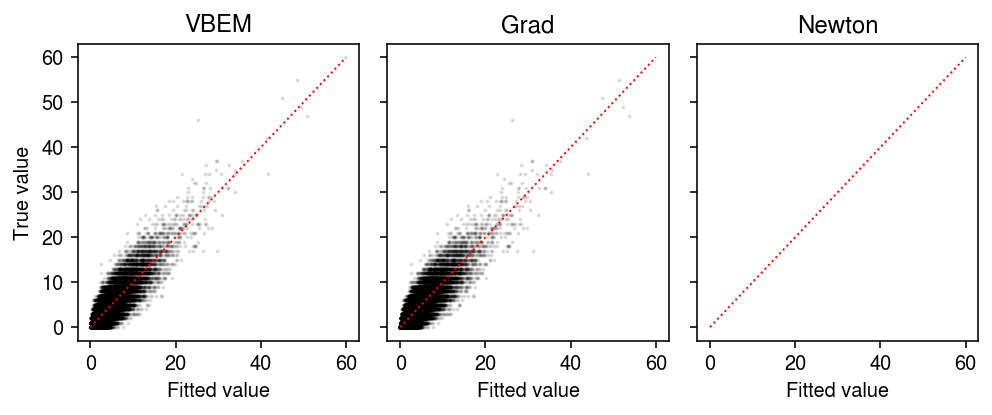
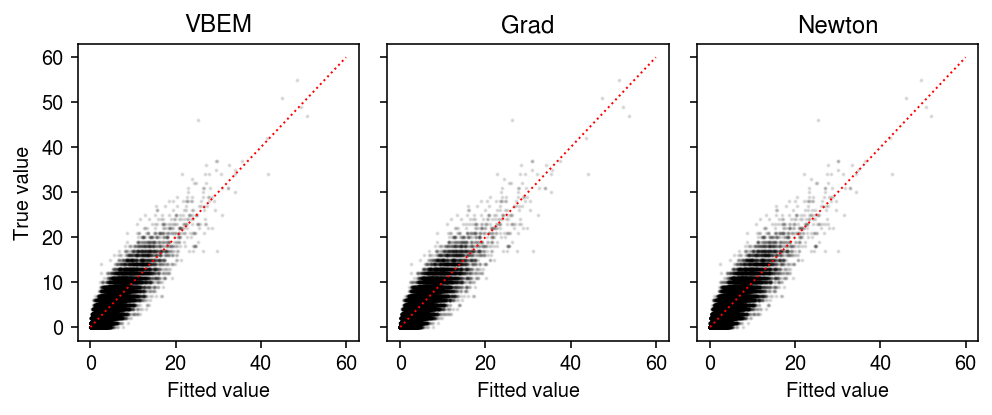
Evaluate all methods on HPMF ELBO after integrating out z

Changed region(s): [[0.6875, 0.4337, 0.8438, 0.8096]]

diff --git a/docs/hpmf.html b/docs/hpmf.html
@@ -1,7 +1,7 @@
 <!DOCTYPE html>
 <html lang="en">
 <head>
-<!-- 2021-06-26 Sat 22:38 -->
+<!-- 2021-06-26 Sat 23:03 -->
 <meta charset="utf-8">
 <meta name="viewport" content="width=device-width, initial-scale=1">
 <title>Hierarchical PMF</title>
@@ -442,7 +442,22 @@ where \(\psi^{(1)}\) denotes the trigamma function.
     <span class="org-keyword">self</span>.b_f = torch.nn.Parameter(torch.ones([1, k]))
 
   <span class="org-type">@torch.no_grad</span>()
-  <span class="org-keyword">def</span> <span class="org-function-name">elbo</span>(<span class="org-keyword">self</span>, x, pm_l, exp_pm_ln_l, pm_f, exp_pm_ln_f):
+  <span class="org-keyword">def</span> <span class="org-function-name">elbo</span>(<span class="org-keyword">self</span>, x):
+    <span class="org-doc">"""ELBO wrt q(l_{ik}) q(f_{jk}), i.e. integrating out z_{ijk}"""</span>
+    <span class="org-variable-name">q_l</span> = torch.distributions.Gamma(<span class="org-keyword">self</span>.alpha_l, <span class="org-keyword">self</span>.beta_l)
+    <span class="org-variable-name">q_f</span> = torch.distributions.Gamma(<span class="org-keyword">self</span>.alpha_f, <span class="org-keyword">self</span>.beta_f)
+    <span class="org-variable-name">kl_l</span> = torch.distributions.kl.kl_divergence(q_l, torch.distributions.Gamma(<span class="org-keyword">self</span>.a_l, <span class="org-keyword">self</span>.b_l)).<span class="org-builtin">sum</span>()
+    <span class="org-variable-name">kl_f</span> = torch.distributions.kl.kl_divergence(q_f, torch.distributions.Gamma(<span class="org-keyword">self</span>.a_f, <span class="org-keyword">self</span>.b_f)).<span class="org-builtin">sum</span>()
+    <span class="org-comment-delimiter"># </span><span class="org-comment">TODO: multiple samples?</span>
+    <span class="org-variable-name">l</span> = q_l.rsample()
+    <span class="org-variable-name">f</span> = q_f.rsample()
+    <span class="org-variable-name">err</span> = torch.distributions.Poisson(l @ f.T).log_prob(x).<span class="org-builtin">sum</span>()
+    <span class="org-variable-name">elbo</span> = err - kl_l - kl_f
+    <span class="org-keyword">return</span> elbo
+
+  <span class="org-type">@torch.no_grad</span>()
+  <span class="org-keyword">def</span> <span class="org-function-name">elbo_z</span>(<span class="org-keyword">self</span>, x, pm_l, exp_pm_ln_l, pm_f, exp_pm_ln_f):
+    <span class="org-doc">"""ELBO wrt q(l_{ik}) q(f_{jk}) q(z_{ijk})"""</span>
     <span class="org-variable-name">temp</span> = exp_pm_ln_l @ exp_pm_ln_f.T
     <span class="org-variable-name">ret</span> = (x * torch.log(temp) - pm_l @ pm_f.T - torch.lgamma(x + 1)).<span class="org-builtin">sum</span>()
     <span class="org-variable-name">ret</span> += ((<span class="org-keyword">self</span>.a_l - <span class="org-keyword">self</span>.alpha_l) * torch.log(exp_pm_ln_l)
@@ -472,10 +487,10 @@ where \(\psi^{(1)}\) denotes the trigamma function.
   <span class="org-keyword">def</span> <span class="org-function-name">fit</span>(<span class="org-keyword">self</span>, x, num_epochs):
     <span class="org-keyword">self</span>.trace = []
     <span class="org-keyword">for</span> i <span class="org-keyword">in</span> <span class="org-builtin">range</span>(num_epochs):
-      <span class="org-comment-delimiter"># </span><span class="org-comment">Cemgil 2009, Alg. 1</span>
       <span class="org-variable-name">pm_l</span>, <span class="org-variable-name">exp_pm_ln_l</span>, <span class="org-variable-name">pm_f</span>, <span class="org-variable-name">exp_pm_ln_f</span> = <span class="org-keyword">self</span>._pm()
-      <span class="org-variable-name">elbo_</span> = <span class="org-keyword">self</span>.elbo(x, pm_l, exp_pm_ln_l, pm_f, exp_pm_ln_f)
-      <span class="org-keyword">self</span>.trace.append(-elbo_)
+      <span class="org-keyword">self</span>.trace.append(-<span class="org-keyword">self</span>.elbo(x).cpu().numpy())
+      <span class="org-comment-delimiter"># </span><span class="org-comment">Cemgil 2009, Alg. 1</span>
+      <span class="org-comment-delimiter"># </span><span class="org-comment">Important: this optimizes elbo_z, not elbo</span>
       <span class="org-variable-name">temp</span> = x / (exp_pm_ln_l @ exp_pm_ln_f.T)
       <span class="org-keyword">self</span>.alpha_l.data = exp_pm_ln_l * (temp @ exp_pm_ln_f) + <span class="org-keyword">self</span>.a_l
       <span class="org-keyword">self</span>.beta_l.data = pm_f.<span class="org-builtin">sum</span>(dim=0) + <span class="org-keyword">self</span>.b_l
@@ -512,7 +527,20 @@ differentiation to get the first and second derivatives.
     <span class="org-keyword">self</span>.a_f = torch.nn.Parameter(torch.ones([1, k]))
     <span class="org-keyword">self</span>.b_f = torch.nn.Parameter(torch.ones([1, k]))
 
+  <span class="org-type">@torch.no_grad</span>()
   <span class="org-keyword">def</span> <span class="org-function-name">elbo</span>(<span class="org-keyword">self</span>, x):
+    <span class="org-variable-name">q_l</span> = torch.distributions.Gamma(<span class="org-keyword">self</span>.alpha_l, <span class="org-keyword">self</span>.beta_l)
+    <span class="org-variable-name">q_f</span> = torch.distributions.Gamma(<span class="org-keyword">self</span>.alpha_f, <span class="org-keyword">self</span>.beta_f)
+    <span class="org-variable-name">kl_l</span> = torch.distributions.kl.kl_divergence(q_l, torch.distributions.Gamma(<span class="org-keyword">self</span>.a_l, <span class="org-keyword">self</span>.b_l)).<span class="org-builtin">sum</span>()
+    <span class="org-variable-name">kl_f</span> = torch.distributions.kl.kl_divergence(q_f, torch.distributions.Gamma(<span class="org-keyword">self</span>.a_f, <span class="org-keyword">self</span>.b_f)).<span class="org-builtin">sum</span>()
+    <span class="org-comment-delimiter"># </span><span class="org-comment">TODO: multiple samples?</span>
+    <span class="org-variable-name">l</span> = q_l.rsample()
+    <span class="org-variable-name">f</span> = q_f.rsample()
+    <span class="org-variable-name">err</span> = torch.distributions.Poisson(l @ f.T).log_prob(x).<span class="org-builtin">sum</span>()
+    <span class="org-variable-name">elbo</span> = err - kl_l - kl_f
+    <span class="org-keyword">return</span> elbo
+
+  <span class="org-keyword">def</span> <span class="org-function-name">elbo_z</span>(<span class="org-keyword">self</span>, x):
     <span class="org-variable-name">pm_l</span> = (<span class="org-keyword">self</span>.alpha_l / <span class="org-keyword">self</span>.beta_l)
     <span class="org-variable-name">exp_pm_ln_l</span> = torch.exp(torch.digamma(<span class="org-keyword">self</span>.alpha_l) - torch.log(<span class="org-keyword">self</span>.beta_l))
     <span class="org-variable-name">pm_f</span> = (<span class="org-keyword">self</span>.alpha_f / <span class="org-keyword">self</span>.beta_f)
@@ -540,22 +568,21 @@ differentiation to get the first and second derivatives.
     <span class="org-doc">"""Newton-Raphon update"""</span>
     <span class="org-keyword">for</span> i <span class="org-keyword">in</span> <span class="org-builtin">range</span>(par.shape[0]):
       <span class="org-keyword">for</span> k <span class="org-keyword">in</span> <span class="org-builtin">range</span>(par.shape[1]):
-        <span class="org-variable-name">d</span> = torch.autograd.grad(<span class="org-keyword">self</span>.elbo(x), par, create_graph=<span class="org-constant">True</span>)[0]
+        <span class="org-comment-delimiter"># </span><span class="org-comment">Important: this optimizes elbo_z, not elbo</span>
+        <span class="org-variable-name">d</span> = torch.autograd.grad(<span class="org-keyword">self</span>.elbo_z(x), par, create_graph=<span class="org-constant">True</span>)[0]
         <span class="org-variable-name">d2</span> = torch.autograd.grad(d[i,k], par)[0]
         <span class="org-keyword">with</span> torch.no_grad():
           <span class="org-variable-name">par.data</span>[i,k] -= step * d[i,k] / (d2[i,k] + eps)
           <span class="org-variable-name">par.data</span>[i,k] = torch.clamp(par.data[i,k], <span class="org-builtin">min</span>=eps)
 
   <span class="org-keyword">def</span> <span class="org-function-name">fit</span>(<span class="org-keyword">self</span>, x, num_epochs, step=1):
-    <span class="org-keyword">with</span> torch.no_grad():
-      <span class="org-keyword">self</span>.trace = [-<span class="org-keyword">self</span>.elbo(x).cpu().numpy()]
+    <span class="org-keyword">self</span>.trace = [-<span class="org-keyword">self</span>.elbo(x).cpu().numpy()]
     <span class="org-keyword">for</span> t <span class="org-keyword">in</span> <span class="org-builtin">range</span>(num_epochs):
       <span class="org-comment-delimiter"># </span><span class="org-comment">TODO: update order probably matters</span>
       <span class="org-keyword">for</span> par <span class="org-keyword">in</span> <span class="org-keyword">self</span>.parameters():
         <span class="org-keyword">if</span> par.requires_grad:
           <span class="org-keyword">self</span>._update(x, par, step=step)
-      <span class="org-keyword">with</span> torch.no_grad():
-        <span class="org-keyword">self</span>.trace.append(-<span class="org-keyword">self</span>.elbo(x).cpu().numpy())
+      <span class="org-keyword">self</span>.trace.append(-<span class="org-keyword">self</span>.elbo(x).cpu().numpy())
     <span class="org-keyword">return</span> <span class="org-keyword">self</span>
 </pre>
 </div>
@@ -613,7 +640,7 @@ al. 2020</a>) and gradient descent. Briefly,
     <span class="org-keyword">for</span> i <span class="org-keyword">in</span> <span class="org-builtin">range</span>(num_epochs):
       opt.zero_grad()
       <span class="org-variable-name">loss</span> = <span class="org-keyword">self</span>.forward(x)
-      <span class="org-keyword">self</span>.trace.append(loss.cpu().detach().numpy())
+      <span class="org-keyword">self</span>.trace.append(loss.detach().cpu().numpy())
       loss.backward()
       opt.step()
     <span class="org-keyword">return</span> <span class="org-keyword">self</span>
@@ -651,7 +678,7 @@ Simulate from the model.
 </div>
 
 <p>
-To initialize all methods, run 1000 epochs of VBEM. For simplicity, fix the
+To initialize all methods, run 500 epochs of VBEM. For simplicity, fix the
 hyperparameters to the oracle values.
 </p>
 
@@ -665,8 +692,9 @@ torch.manual_seed(1)
 
 <p>
 Starting from the same initialization, compare VBEM and Newton-Raphson
-(which optimize the ELBO eq. 21-22) and gradient descent (which optimizes
-the ELBO eq. 32).
+(which optimize the ELBO eq. 20-21) and gradient descent (which optimizes
+the ELBO eq. 32). For each method, trace the ELBO estimated according to
+eq. 32.
 </p>
 
 <div class="org-src-container">
@@ -742,140 +770,19 @@ plt.tight_layout()
 </div>
 
 <p>
-Estimate the total improvement in ELBO achieved by GD.
+Report the final (approximate) ELBO.
 </p>
 
 <div class="org-src-container">
-<pre class="src src-ipython">m1.trace[-1].cpu() - np.array(m2.trace[-50:]).mean()
+<pre class="src src-ipython">{<span class="org-doc">'VBEM'</span>: np.array(m1.trace[-10:]).mean(),
+ <span class="org-doc">'GD'</span>: np.array(m2.trace[-10:]).mean(),
+ <span class="org-doc">'Newton'</span>: np.array(m3.trace[-10:]).mean()}
 </pre>
 </div>
 
 <pre class="example">
-tensor(378.7500)
+{'VBEM': 104987.02, 'GD': 104994.67, 'Newton': 104972.0}
 
-</pre>
-
-<p>
-Quantify how much the variational approximation to \(z\) made by VBEM
-decreases the ELBO.
-</p>
-
-<div class="org-src-container">
-<pre class="src src-ipython">m0.trace[-1].cpu() - m2.trace[0]
-</pre>
-</div>
-
-<pre class="example">
-tensor(-171.4219)
-
-</pre>
-
-<p>
-Examine the VBEM model fit. Match the most correlated factors to each other.
-</p>
-
-<div class="org-src-container">
-<pre class="src src-ipython"><span class="org-keyword">with</span> torch.no_grad():
-  <span class="org-variable-name">pm</span> = (m1.alpha_f / m1.beta_f).cpu()
-<span class="org-variable-name">R</span> = np.corrcoef(pm.T, f.T)[K:,:K]
-<span class="org-variable-name">order</span> = np.argmax(R, axis=1)
-R
-</pre>
-</div>
-
-<pre class="example">
-array([[ 0.01894316, -0.07768191,  0.99240779],
-[ 0.99418493,  0.03296905,  0.02722373],
-[ 0.02448254,  0.99437127, -0.05624917]])
-</pre>
-
-<div class="org-src-container">
-<pre class="src src-ipython">plt.clf()
-<span class="org-variable-name">fig</span>, <span class="org-variable-name">ax</span> = plt.subplots(2, 3)
-fig.set_size_inches(7, 5)
-<span class="org-keyword">for</span> k, a <span class="org-keyword">in</span> <span class="org-builtin">enumerate</span>(ax[0]):
-  <span class="org-keyword">with</span> torch.no_grad():
-    <span class="org-variable-name">pm</span> = (m1.alpha_l / m1.beta_l).cpu()
-  a.scatter(pm[:,order[k]], l[:,k], c=<span class="org-string">'k'</span>, s=1)
-  a.set_title(f<span class="org-string">'$k = {k}$'</span>)
-<span class="org-keyword">for</span> k, a <span class="org-keyword">in</span> <span class="org-builtin">enumerate</span>(ax[1]):
-  <span class="org-keyword">with</span> torch.no_grad():
-    <span class="org-variable-name">pm</span> = (m1.alpha_f / m1.beta_f).cpu()
-  a.scatter(pm[:,order[k]], f[:,k], c=<span class="org-string">'k'</span>, s=1)
-  a.set_xlabel(<span class="org-string">'Estimate'</span>)
-<span class="org-keyword">for</span> a, label <span class="org-keyword">in</span> <span class="org-builtin">zip</span>(ax, [<span class="org-string">'loading'</span>, <span class="org-string">'factor'</span>]):
-  a[0].set_ylabel(f<span class="org-string">'True {label}'</span>)
-fig.tight_layout()
-</pre>
-</div>
-
-
-<div class="figure">
-<p><img src="figure/hpmf.org/sim-ex-vbem.png" alt="sim-ex-vbem.png">
-</p>
-</div>
-
-<p>
-Examine the gradient descent model fit.
-</p>
-
-<div class="org-src-container">
-<pre class="src src-ipython"><span class="org-keyword">with</span> torch.no_grad():
-  <span class="org-variable-name">pm</span> = (m2.alpha_f / m2.beta_f).cpu()
-<span class="org-variable-name">R</span> = np.corrcoef(pm.T, f.T)[K:,:K]
-<span class="org-variable-name">order</span> = np.argmax(R, axis=1)
-R
-</pre>
-</div>
-
-<pre class="example">
-array([[ 0.01498485, -0.08129763,  0.99261935],
-[ 0.9940327 ,  0.02940908,  0.0216655 ],
-[ 0.02075537,  0.99444797, -0.06168111]])
-</pre>
-
-<div class="org-src-container">
-<pre class="src src-ipython">plt.clf()
-<span class="org-variable-name">fig</span>, <span class="org-variable-name">ax</span> = plt.subplots(2, 3)
-fig.set_size_inches(7, 5)
-<span class="org-keyword">for</span> k, a <span class="org-keyword">in</span> <span class="org-builtin">enumerate</span>(ax[0]):
-  <span class="org-keyword">with</span> torch.no_grad():
-    <span class="org-variable-name">pm</span> = (m2.alpha_l / m2.beta_l).cpu()
-  a.scatter(pm[:,order[k]], l[:,k], c=<span class="org-string">'k'</span>, s=1)
-  a.set_ylabel(<span class="org-string">'True loading'</span>)
-  a.set_title(f<span class="org-string">'$k = {k}$'</span>)
-<span class="org-keyword">for</span> k, a <span class="org-keyword">in</span> <span class="org-builtin">enumerate</span>(ax[1]):
-  <span class="org-keyword">with</span> torch.no_grad():
-    <span class="org-variable-name">pm</span> = (m2.alpha_f / m2.beta_f).cpu()
-  a.scatter(pm[:,order[k]], f[:,k], c=<span class="org-string">'k'</span>, s=1)
-  a.set_ylabel(<span class="org-string">'True factor'</span>)
-  a.set_xlabel(<span class="org-string">'Estimate'</span>)
-fig.tight_layout()
-</pre>
-</div>
-
-
-<div class="figure">
-<p><img src="figure/hpmf.org/sim-ex-reparam.png" alt="sim-ex-reparam.png">
-</p>
-</div>
-
-<p>
-Compare the estimated parameters to each other.
-</p>
-
-<div class="org-src-container">
-<pre class="src src-ipython"><span class="org-keyword">with</span> torch.no_grad():
-  <span class="org-variable-name">norm_diff</span> = {key: torch.norm(<span class="org-builtin">getattr</span>(m1, key) - <span class="org-builtin">getattr</span>(m2, key)).cpu().numpy() <span class="org-keyword">for</span> key <span class="org-keyword">in</span> (<span class="org-string">'alpha_l'</span>, <span class="org-string">'beta_l'</span>, <span class="org-string">'alpha_f'</span>, <span class="org-string">'beta_f'</span>)}
-norm_diff
-</pre>
-</div>
-
-<pre class="example">
-{'alpha_l': array(290.46838, dtype=float32),
-'beta_l': array(32.1682, dtype=float32),
-'alpha_f': array(349.47363, dtype=float32),
-'beta_f': array(8.524325, dtype=float32)}
 </pre>
 
 <p>
@@ -887,7 +794,7 @@ Compare the fitted values of each approach to the observed values.
 <span class="org-variable-name">fig</span>, <span class="org-variable-name">ax</span> = plt.subplots(1, 3, sharey=<span class="org-constant">True</span>)
 fig.set_size_inches(7, 3)
 
-<span class="org-keyword">for</span> a, model <span class="org-keyword">in</span> <span class="org-builtin">zip</span>(ax, (m1, m2)):
+<span class="org-keyword">for</span> a, model <span class="org-keyword">in</span> <span class="org-builtin">zip</span>(ax, (m1, m2, m3)):
   <span class="org-keyword">with</span> torch.no_grad():
     <span class="org-variable-name">pm</span> = ((model.alpha_l / model.beta_l) @ (model.alpha_f / model.beta_f).T).cpu()
   a.scatter(pm.ravel(), x.ravel(), s=1, alpha=0.1, c=<span class="org-string">'k'</span>)
@@ -912,7 +819,7 @@ fig.tight_layout()
 </div>
 <div id="postamble" class="status">
 <p class="author">Author: Abhishek Sarkar</p>
-<p class="date">Created: 2021-06-26 Sat 22:38</p>
+<p class="date">Created: 2021-06-26 Sat 23:03</p>
 <p class="validation"><a href="http://validator.w3.org/check?uri=referer">Validate</a></p>
 </div>
 </body>
